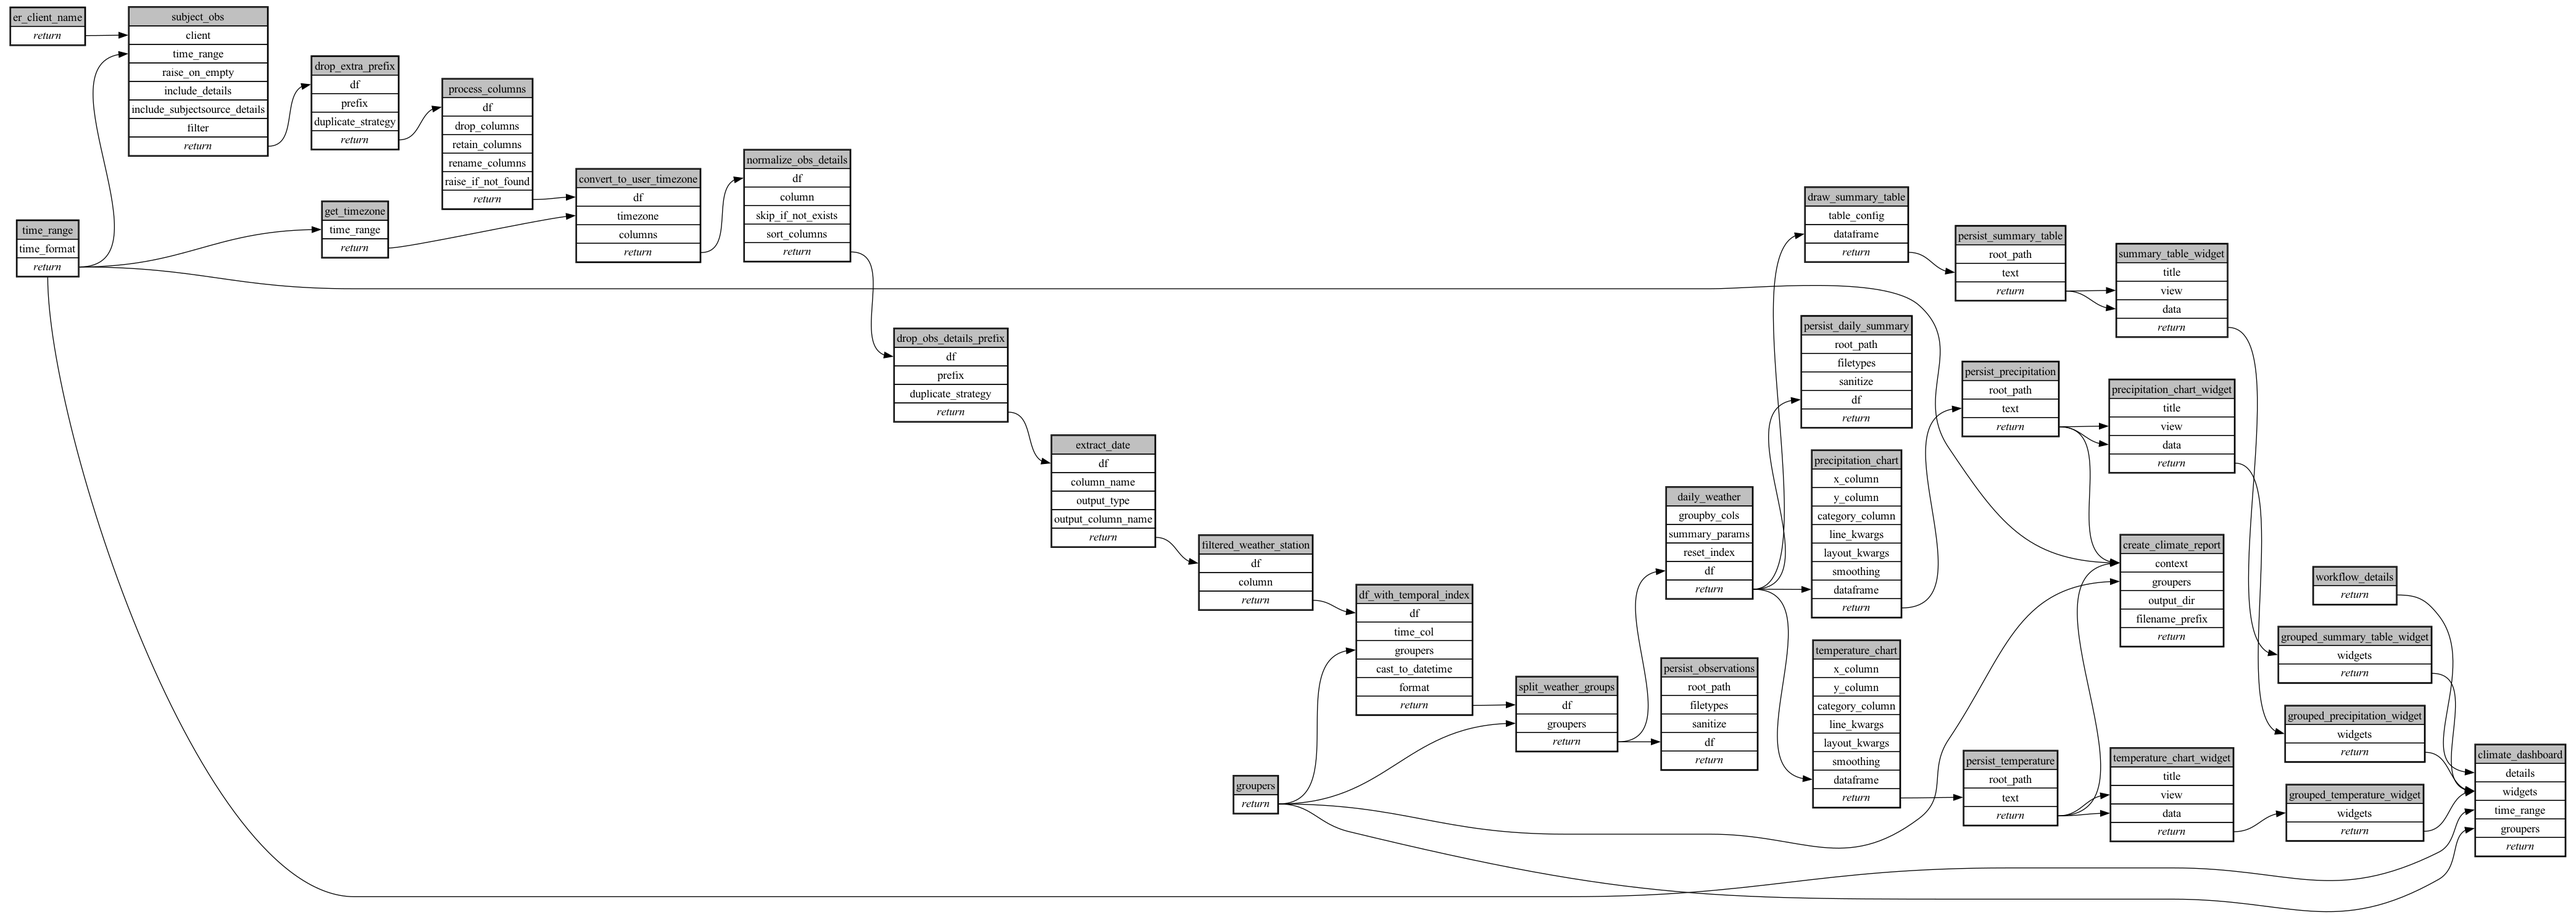
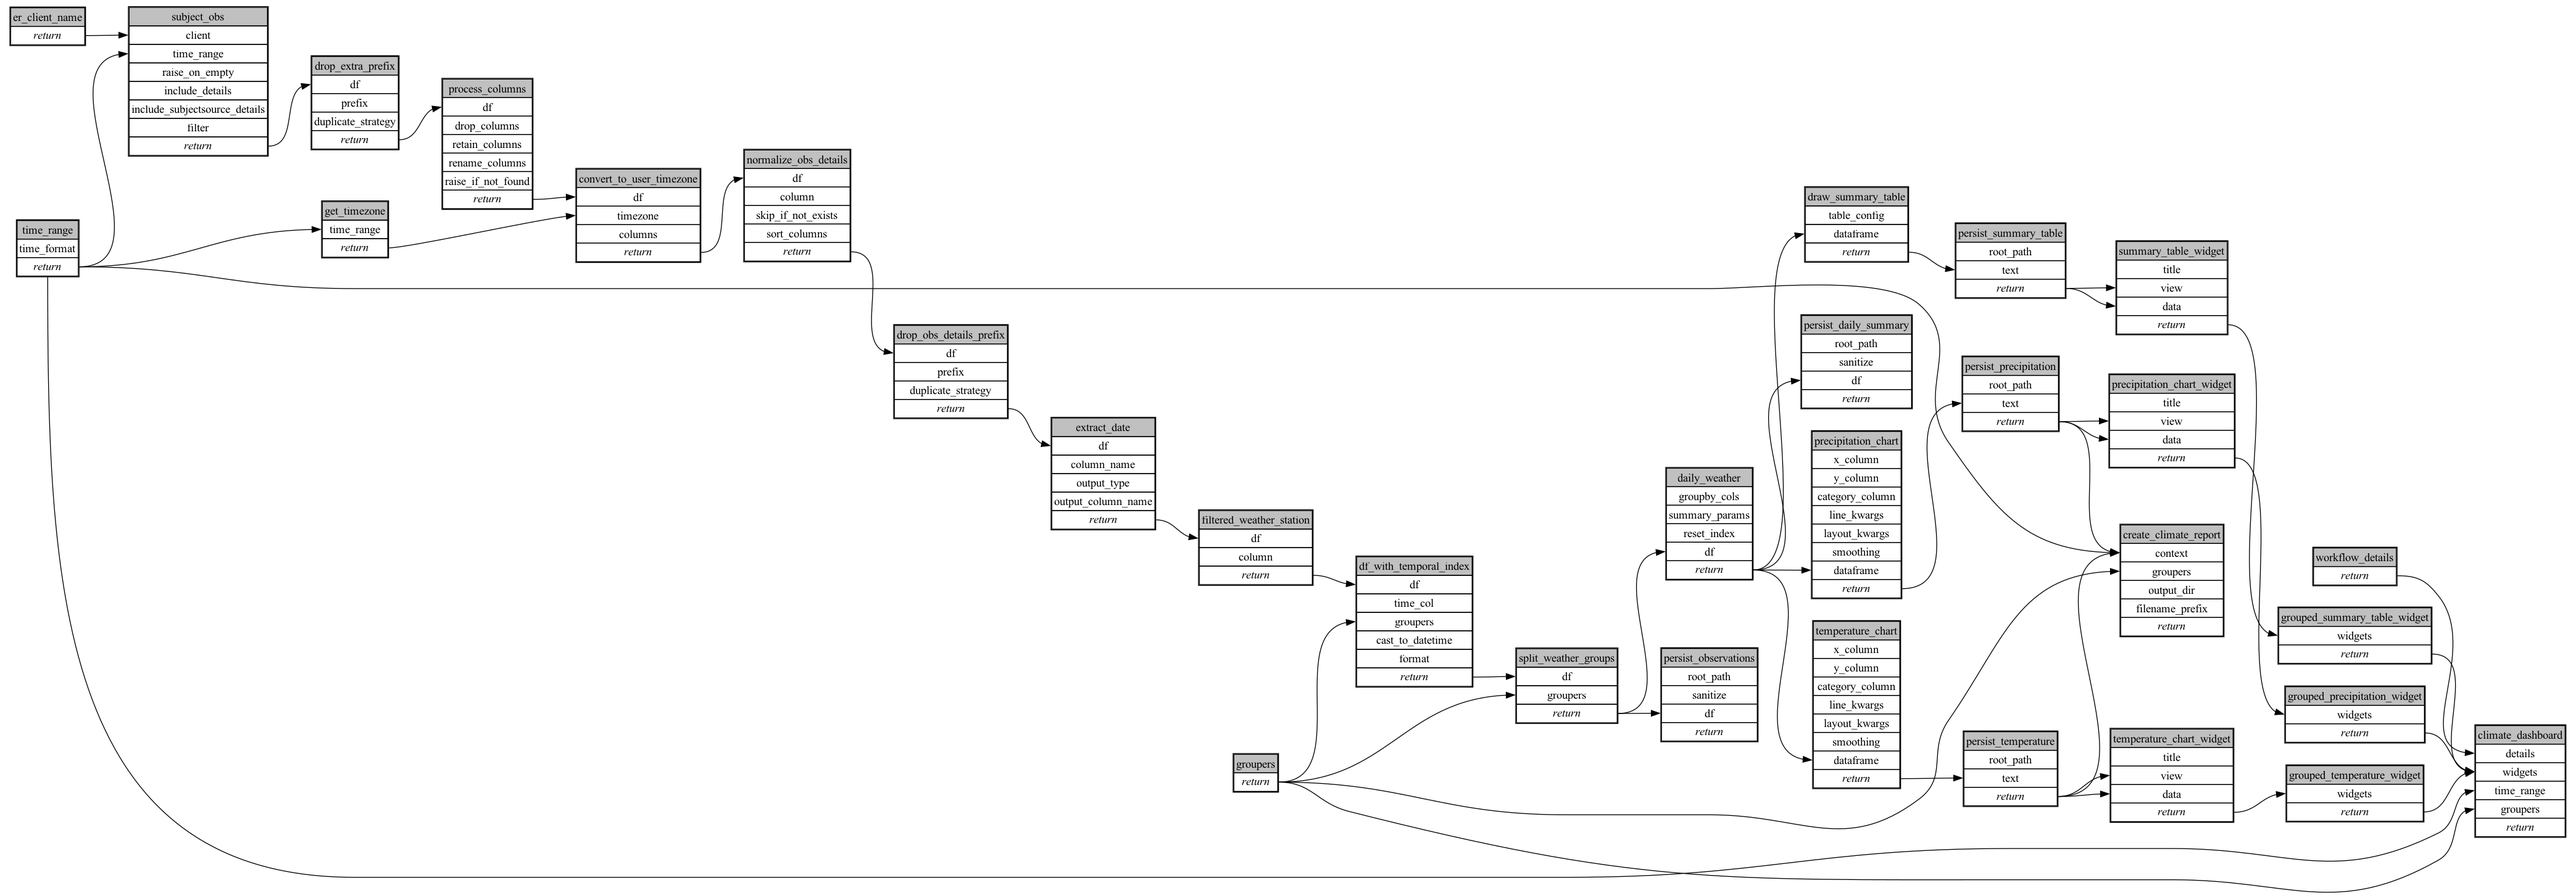
recompile

diff --git a/ecoscope-workflows-climate-monitoring-workflow/ecoscope_workflows_climate_monitoring_workflow/params.py b/ecoscope-workflows-climate-monitoring-workflow/ecoscope_workflows_climate_monitoring_workflow/params.py
@@ -4,6 +4,7 @@
 from __future__ import annotations
 
 from datetime import datetime
+from enum import Enum
 from typing import List, Optional, Union
 
 from pydantic import BaseModel, ConfigDict, Field
@@ -39,9 +40,19 @@ class FilteredWeatherStation(BaseModel):
     )
 
 
+class Filetype(str, Enum):
+    csv = "csv"
+    gpkg = "gpkg"
+    geoparquet = "geoparquet"
+    parquet = "parquet"
+
+
 class PersistObservations(BaseModel):
     model_config = ConfigDict(
         extra="forbid",
+    )
+    filetypes: Optional[List[Filetype]] = Field(
+        ["csv"], description="The output format", title="Filetypes"
     )
     filename_prefix: Optional[str] = Field(
         None,
@@ -53,6 +64,9 @@ class PersistObservations(BaseModel):
 class PersistDailySummary(BaseModel):
     model_config = ConfigDict(
         extra="forbid",
+    )
+    filetypes: Optional[List[Filetype]] = Field(
+        ["csv"], description="The output format", title="Filetypes"
     )
     filename_prefix: Optional[str] = Field(
         None,

diff --git a/ecoscope-workflows-climate-monitoring-workflow/ecoscope_workflows_climate_monitoring_workflow/formdata.py b/ecoscope-workflows-climate-monitoring-workflow/ecoscope_workflows_climate_monitoring_workflow/formdata.py
@@ -4,6 +4,7 @@
 from __future__ import annotations
 
 from datetime import datetime
+from enum import Enum
 from typing import List, Optional, Union
 
 from pydantic import BaseModel, ConfigDict, Field
@@ -39,9 +40,17 @@ class FilteredWeatherStation(BaseModel):
     )
 
 
+class Filetype(str, Enum):
+    csv = "csv"
+    parquet = "parquet"
+
+
 class PersistObservations(BaseModel):
     model_config = ConfigDict(
         extra="forbid",
+    )
+    filetypes: Optional[List[Filetype]] = Field(
+        ["parquet"], description="The output format", title="Filetypes"
     )
     filename_prefix: Optional[str] = Field(
         "observations",
@@ -53,6 +62,9 @@ class PersistObservations(BaseModel):
 class PersistDailySummary(BaseModel):
     model_config = ConfigDict(
         extra="forbid",
+    )
+    filetypes: Optional[List[Filetype]] = Field(
+        ["csv"], description="The output format", title="Filetypes"
     )
     filename_prefix: Optional[str] = Field(
         "daily_summary",

diff --git a/ecoscope-workflows-climate-monitoring-workflow/ecoscope_workflows_climate_monitoring_workflow/dags/jupytext.py b/ecoscope-workflows-climate-monitoring-workflow/ecoscope_workflows_climate_monitoring_workflow/dags/jupytext.py
@@ -467,6 +467,7 @@ split_weather_groups = (
 
 persist_observations_params = dict(
     filename=...,
+    filetypes=...,
     filename_prefix=...,
 )
 
@@ -480,7 +481,6 @@ persist_observations = (
     .with_tracing()
     .partial(
         root_path=os.environ["ECOSCOPE_WORKFLOWS_RESULTS"],
-        filetypes=["parquet"],
         sanitize=True,
         **persist_observations_params,
     )
@@ -533,6 +533,7 @@ daily_weather = (
 
 persist_daily_summary_params = dict(
     filename=...,
+    filetypes=...,
     filename_prefix=...,
 )
 
@@ -546,7 +547,6 @@ persist_daily_summary = (
     .with_tracing()
     .partial(
         root_path=os.environ["ECOSCOPE_WORKFLOWS_RESULTS"],
-        filetypes=["csv"],
         sanitize=False,
         **persist_daily_summary_params,
     )

diff --git a/ecoscope-workflows-climate-monitoring-workflow/ecoscope_workflows_climate_monitoring_workflow/dags/run_async.py b/ecoscope-workflows-climate-monitoring-workflow/ecoscope_workflows_climate_monitoring_workflow/dags/run_async.py
@@ -329,9 +329,6 @@ def main(params: Params):
             .set_executor("lithops"),
             partial={
                 "root_path": os.environ["ECOSCOPE_WORKFLOWS_RESULTS"],
-                "filetypes": [
-                    "parquet",
-                ],
                 "sanitize": True,
             }
             | (params_dict.get("persist_observations") or {}),
@@ -381,9 +378,6 @@ def main(params: Params):
             .set_executor("lithops"),
             partial={
                 "root_path": os.environ["ECOSCOPE_WORKFLOWS_RESULTS"],
-                "filetypes": [
-                    "csv",
-                ],
                 "sanitize": False,
             }
             | (params_dict.get("persist_daily_summary") or {}),

diff --git a/ecoscope-workflows-climate-monitoring-workflow/ecoscope_workflows_climate_monitoring_workflow/dags/run_async_mock_io.py b/ecoscope-workflows-climate-monitoring-workflow/ecoscope_workflows_climate_monitoring_workflow/dags/run_async_mock_io.py
@@ -343,9 +343,6 @@ def main(params: Params):
             .set_executor("lithops"),
             partial={
                 "root_path": os.environ["ECOSCOPE_WORKFLOWS_RESULTS"],
-                "filetypes": [
-                    "parquet",
-                ],
                 "sanitize": True,
             }
             | (params_dict.get("persist_observations") or {}),
@@ -395,9 +392,6 @@ def main(params: Params):
             .set_executor("lithops"),
             partial={
                 "root_path": os.environ["ECOSCOPE_WORKFLOWS_RESULTS"],
-                "filetypes": [
-                    "csv",
-                ],
                 "sanitize": False,
             }
             | (params_dict.get("persist_daily_summary") or {}),

diff --git a/ecoscope-workflows-climate-monitoring-workflow/ecoscope_workflows_climate_monitoring_workflow/dags/run_sequential.py b/ecoscope-workflows-climate-monitoring-workflow/ecoscope_workflows_climate_monitoring_workflow/dags/run_sequential.py
@@ -272,7 +272,6 @@ def main(params: Params):
         .with_tracing()
         .partial(
             root_path=os.environ["ECOSCOPE_WORKFLOWS_RESULTS"],
-            filetypes=["parquet"],
             sanitize=True,
             **(params_dict.get("persist_observations") or {}),
         )
@@ -311,7 +310,6 @@ def main(params: Params):
         .with_tracing()
         .partial(
             root_path=os.environ["ECOSCOPE_WORKFLOWS_RESULTS"],
-            filetypes=["csv"],
             sanitize=False,
             **(params_dict.get("persist_daily_summary") or {}),
         )

diff --git a/ecoscope-workflows-climate-monitoring-workflow/ecoscope_workflows_climate_monitoring_workflow/dags/run_sequential_mock_io.py b/ecoscope-workflows-climate-monitoring-workflow/ecoscope_workflows_climate_monitoring_workflow/dags/run_sequential_mock_io.py
@@ -286,7 +286,6 @@ def main(params: Params):
         .with_tracing()
         .partial(
             root_path=os.environ["ECOSCOPE_WORKFLOWS_RESULTS"],
-            filetypes=["parquet"],
             sanitize=True,
             **(params_dict.get("persist_observations") or {}),
         )
@@ -325,7 +324,6 @@ def main(params: Params):
         .with_tracing()
         .partial(
             root_path=os.environ["ECOSCOPE_WORKFLOWS_RESULTS"],
-            filetypes=["csv"],
             sanitize=False,
             **(params_dict.get("persist_daily_summary") or {}),
         )

diff --git a/ecoscope-workflows-climate-monitoring-workflow/README.md b/ecoscope-workflows-climate-monitoring-workflow/README.md
@@ -5,8 +5,8 @@
 
 ```yaml
 # fingerprint:
-artifacts_sha256_basic: 46766d2a517f35e8f555022e9312cb854faea9abae3d9f69c48e1e928d1cf0aa
-artifacts_sha256_strict: ffa4baaa050d604e8762a9d3b9372e69ef3831c9ac2b71b91bb8fe28072c4e7c
+artifacts_sha256_basic: 51b50e329cee2d44d25e00dd08f712b7d887f9a95188956383e2dcd4ba58cbb9
+artifacts_sha256_strict: 0ed7788db6737388939339353aa458524bd87e0119282102801cadce346818db
 installed_requirements:
 - channel: https://repo.prefix.dev/ecoscope-workflows/
   name: ecoscope-workflows-core
@@ -17,8 +17,8 @@ installed_requirements:
 - channel: https://repo.prefix.dev/ecoscope-workflows-custom/
   name: ecoscope-workflows-ext-custom
   version: {version: ==0.0.35}
-params_sha256: 468dedcbdeaadf911155ea4f1a493a2362edce60abe7070cd578e71f32cf1634
-spec_sha256: c787562f1aa77bf738067dab8b8bf93167e3b00e49e5fd932e092f93d83d4031
+params_sha256: 49bc3c8b7e835679ced69cfca65a0ad920fa8a1b5044f74c5ed952bcfc7fa837
+spec_sha256: c26964c1bfd7d3621cc13bcccd567a2de19d260de2bfbde7397b50791a8baa9d
 
 ```
 
